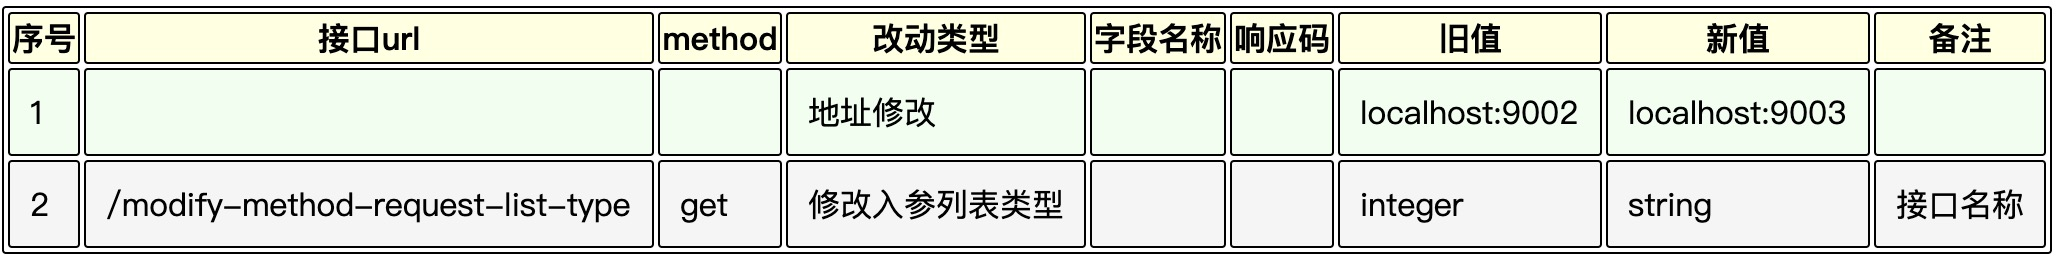
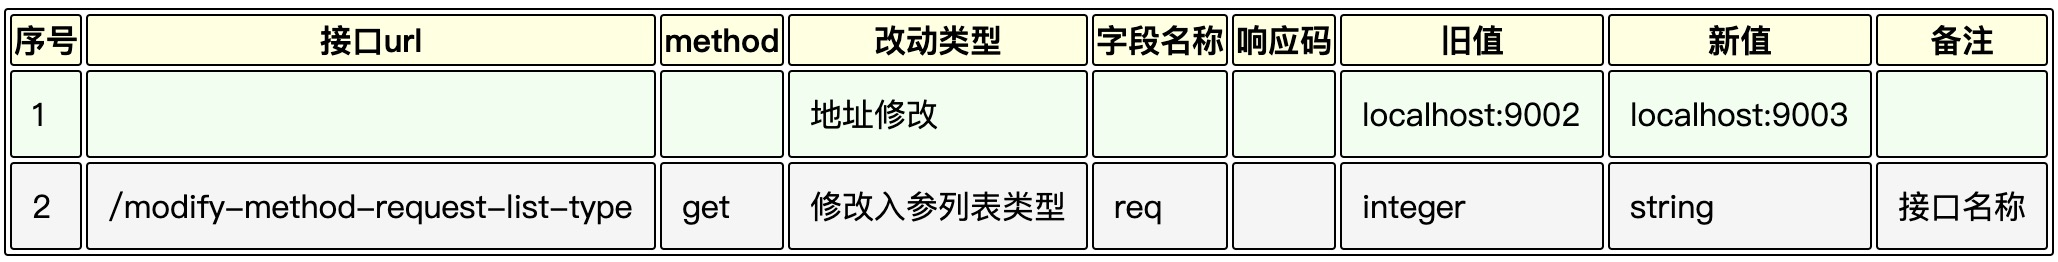
修改request的schema的type为array的情况下name不展示的bug

diff --git a/com/kungyu/diff/v2/SwaggerDiff.py b/com/kungyu/diff/v2/SwaggerDiff.py
@@ -264,7 +264,7 @@ class SwaggerDiff(Command):
         if diff_type == DiffType.REQUEST_SCHEMA_MODIFY_REQUIRED or diff_type == DiffType.RESPONSE_SCHEMA_MODIFY_REQUIRED:
             self.diff_list.append(DiffProperty(path, method, diff_type, self.generate_schema_required(new_schema.required, field_name), self.generate_schema_required(orig_schema.required, field_name), field_name, summary))
         if diff_type == DiffType.REQUEST_SCHEMA_MODIFY_ITEMS_TYPE or diff_type == DiffType.RESPONSE_SCHEMA_MODIFY_ITEMS_TYPE:
-            self.diff_list.append(DiffProperty(path, method, diff_type, TypeConvertor.convertToActualDataType(new_schema.type, new_schema.format), TypeConvertor.convertToActualDataType(orig_schema.type, orig_schema.format), None, summary))
+            self.diff_list.append(DiffProperty(path, method, diff_type, TypeConvertor.convertToActualDataType(new_schema.type, new_schema.format), TypeConvertor.convertToActualDataType(orig_schema.type, orig_schema.format), field_name, summary))
         if diff_type == DiffType.REQUEST_SCHEMA_MODIFY_EXAMPLE or diff_type == DiffType.RESPONSE_SCHEMA_MODIFY_EXAMPLE:
             self.diff_list.append(DiffProperty(path, method, diff_type, new_schema.example, orig_schema.example, field_name, summary))
 
@@ -340,4 +340,4 @@ class SwaggerDiff(Command):
         if new_items.type != orig_items.type or new_items.format != orig_items.format:
             suffix = 'schema_modify_items_type'
         if suffix:
-            self.build_schema_diff(path, method, summary, DiffType.get_diff_type(property_type, suffix), new_items, orig_items, None)
+            self.build_schema_diff(path, method, summary, DiffType.get_diff_type(property_type, suffix), new_items, orig_items, new_schema.name)
